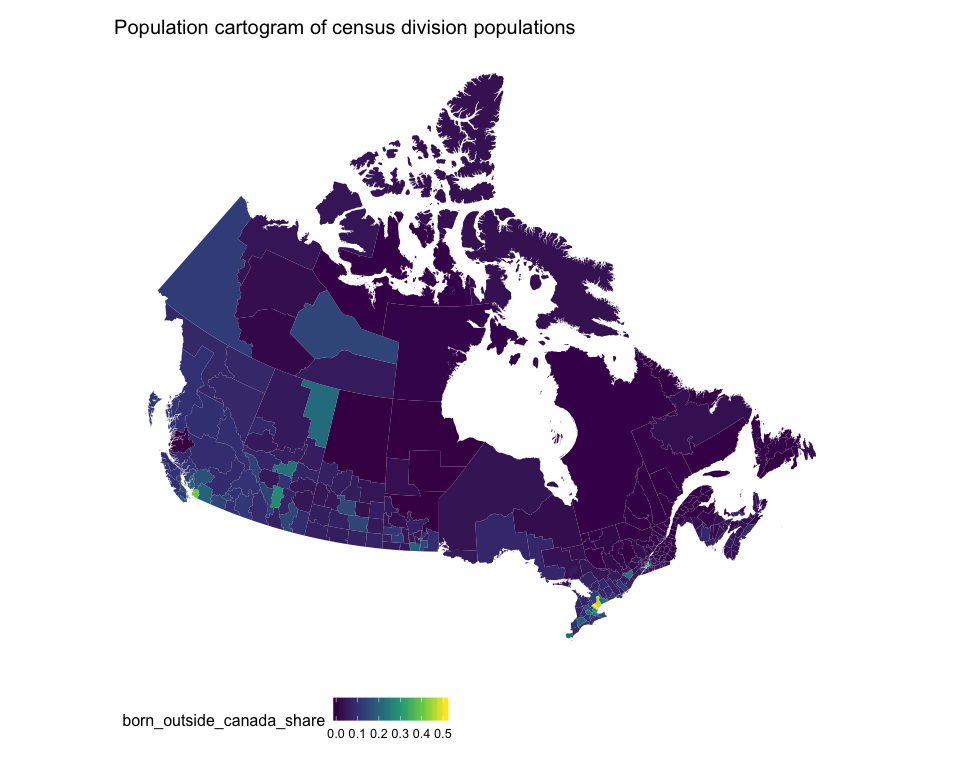
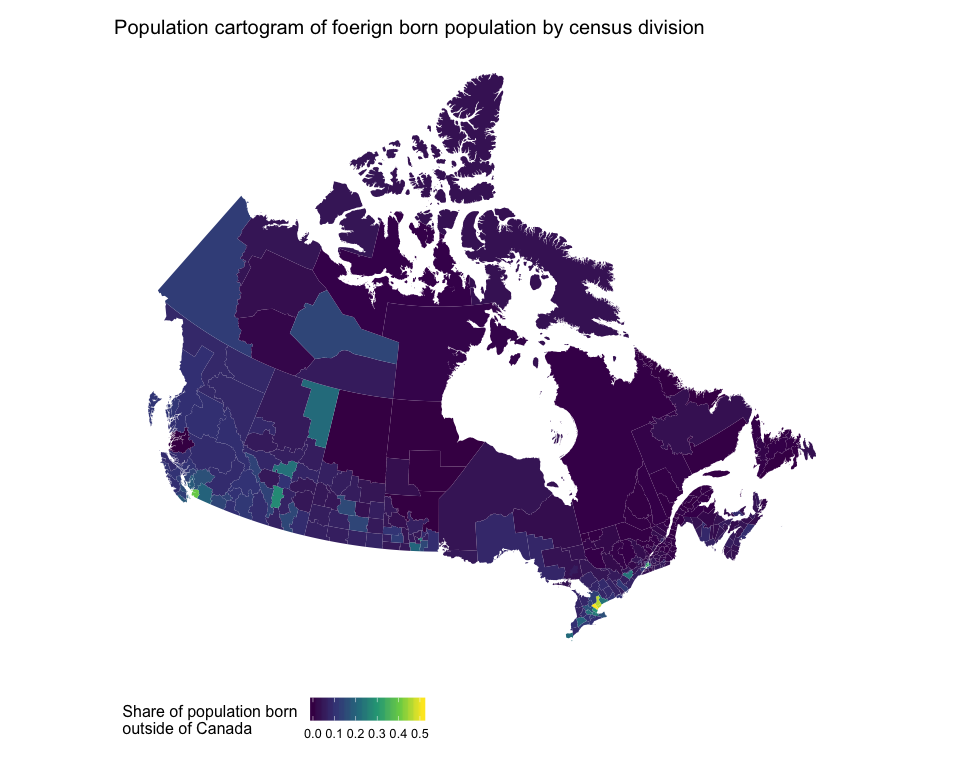
Fix readme, add quebec riding plot to riding_binplot vignette, add legend_name argument to riding_binplot

Changed region(s): [[0.125, 0.9062, 0.4688, 0.9688], [0.3438, 0.0312, 0.75, 0.0625]]

diff --git a/README.md b/README.md
@@ -65,7 +65,7 @@ riding_binplot(quebec_provincial_results,
   theme_mapcan() +
   scale_fill_manual(name = "Winning party", 
                     values = c("deepskyblue1", "red","royalblue4",  "orange")) +
-  ggtitle("Hex tile map of 2018 provincial election results")
+  ggtitle("Hex tile map of 2018 Quebec election results")
 ```
 
 ![](README-unnamed-chunk-5-1.png)
@@ -73,7 +73,7 @@ riding_binplot(quebec_provincial_results,
 Standard choropleth maps
 ------------------------
 
-The `mapcan()` returns geographic coordinate data frames at census division, federal riding, and provincial levels.
+The `mapcan()` function returns geographic coordinate data frames at census division, federal riding, and provincial levels.
 
 ![](README-unnamed-chunk-7-1.png)
 
@@ -117,10 +117,10 @@ census_choropleth_data <- left_join(census_choropleth_data, census_immigrant_sha
 
 ggplot(census_choropleth_data, aes(long, lat, group = group, fill = born_outside_canada_share)) +
   geom_polygon() +
-  scale_fill_viridis_c() +
+  scale_fill_viridis_c(name = "Share of population born \noutside of Canada") +
   theme_mapcan() +
   coord_fixed() +
-  ggtitle("Population cartogram of census division populations")
+  ggtitle("Population cartogram of foerign born population by census division")
 ```
 
 ![](README-unnamed-chunk-10-1.png)
@@ -135,10 +135,12 @@ census_cartogram_data <- left_join(census_cartogram_data, census_immigrant_share
 
 ggplot(census_cartogram_data, aes(long, lat, group = group, fill = born_outside_canada_share)) +
   geom_polygon() +
-  scale_fill_viridis_c() +
+  scale_fill_viridis_c(name = "Share of population born \noutside of Canada") +
   theme_mapcan() +
   coord_fixed() +
-  ggtitle("Population cartogram of census division populations")
+  ggtitle("Population cartogram of foerign born population by census division")
 ```
 
 ![](README-unnamed-chunk-11-1.png)
+
+Comparing these two maps, it is clear that the standard choropleth map visually understates the share of the population that is foreign born in Canada.
